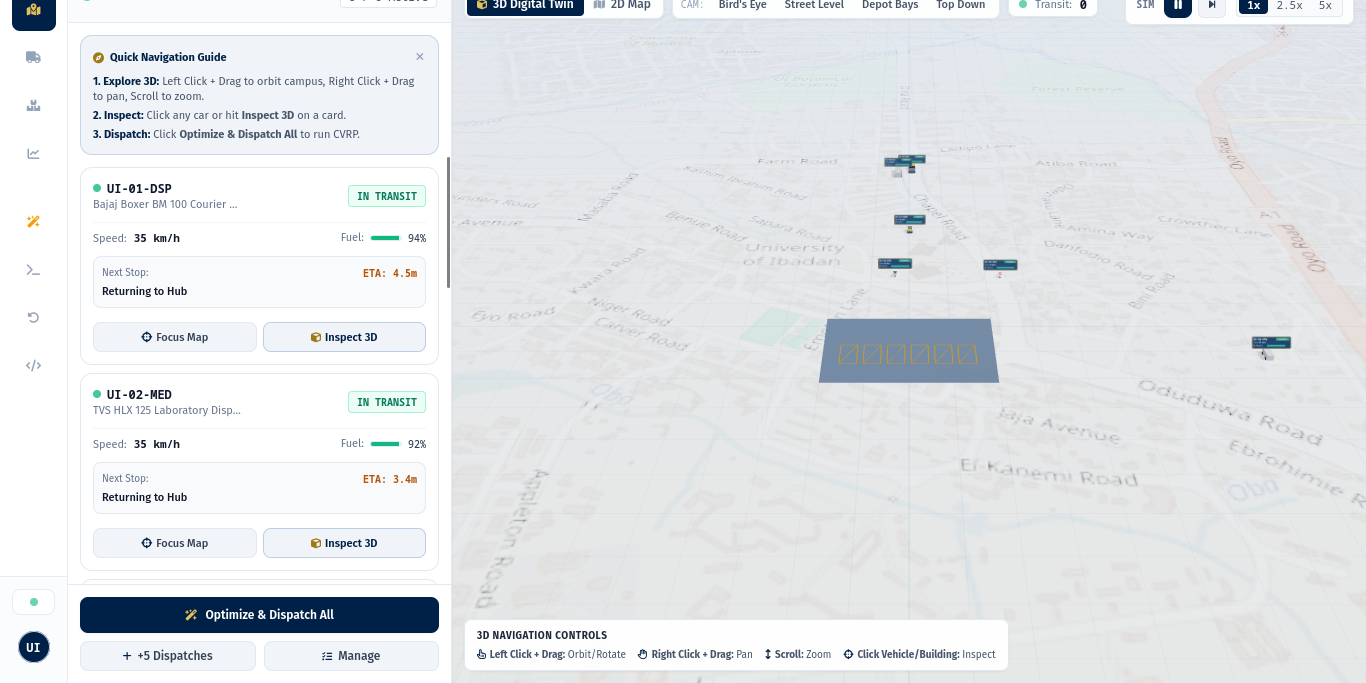
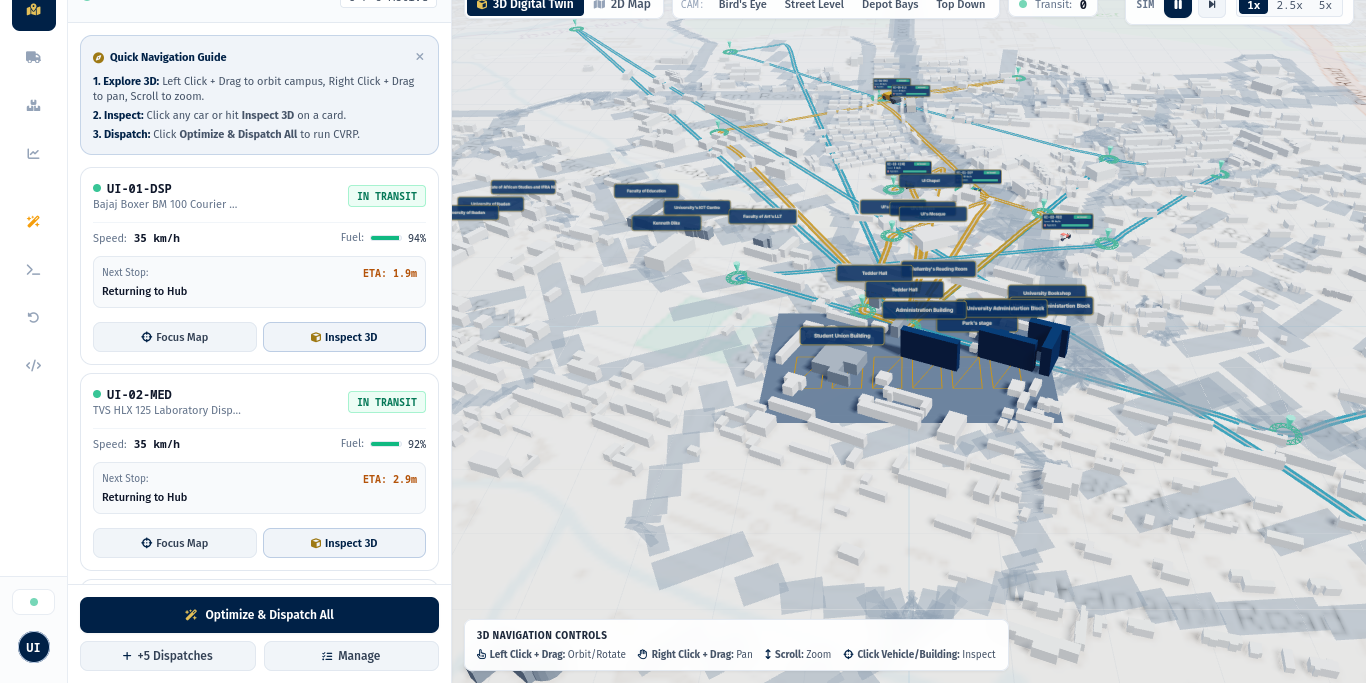
docs: modernize readme header, zoom in 3d layout preview, remove ngrok guide

diff --git a/app/static/js/map3d.js b/app/static/js/map3d.js
@@ -77,7 +77,7 @@ class Campus3DEngine {
 
         // 2. Camera: Wide-angle perspective overlooking campus (isometric 3D Google Maps style)
         this.camera = new THREE.PerspectiveCamera(45, width / height, 1, 4500);
-        this.camera.position.set(0, 240, 340);
+        this.camera.position.set(0, 150, 210);
 
         // 3. WebGL Renderer with PBR tone mapping & soft shadows
         this.renderer = new THREE.WebGLRenderer({ antialias: true, powerPreference: "high-performance" });
@@ -1341,7 +1341,7 @@ class Campus3DEngine {
     setCameraPreset(preset) {
         this.unlockFollow(false);
         if (preset === 'bird') {
-            this.camera.position.set(0, 240, 340);
+            this.camera.position.set(0, 150, 210);
             this.controls.target.set(0, 0, 0);
         } else if (preset === 'street') {
             this.camera.position.set(0, 24, 70);

diff --git a/README.md b/README.md
@@ -1,37 +1,43 @@
-# 🚚 UI-FleetFlow — Campus Fleet & Logistics Management System
-
 <div align="center">
-  <img src="app/static/images/ui_logo.png" alt="University of Ibadan Logo" width="340"/>
-  <br/>
-  <h2><b>Intelligent Campus Fleet & Logistics Management System</b></h2>
-  <p><b>Academic Case Study: University of Ibadan (UI), Ibadan, Nigeria</b></p>
-  <p><i>Real-Time 3D Digital Twin • Autonomous CVRP Dispatch Solver • Live Telematics</i></p>
+  <img src="app/static/images/ui_logo.png" alt="University of Ibadan Crest" width="220"/>
+  <br/><br/>
+  <h1>UI-FleetFlow</h1>
+  <p><b>Intelligent Campus Fleet & Logistics Management System</b><br/>
+  <i>Academic Case Study: University of Ibadan (UI), Ibadan, Nigeria</i><br/>
+  Real-Time 3D Digital Twin • Autonomous CVRP Dispatch Solver • High-Frequency Telematics</p>
 
-  <br/>
+  <p>
+    <a href="https://university-of-ibadan-fleet-management.onrender.com/" target="_blank">
+      <img src="https://img.shields.io/badge/🎮%20LAUNCH%20LIVE%203D%20SIMULATION-EXPLORE%20CAMPUS%20TWIN-002147?style=for-the-badge&logo=threedotjs&logoColor=F59E0B&labelColor=001633" alt="Launch Live 3D Simulation" height="42"/>
+    </a>
+  </p>
 
-  <a href="https://university-of-ibadan-fleet-management.onrender.com/" target="_blank">
-    <img src="https://img.shields.io/badge/🎮%20LAUNCH%20LIVE%203D%20SIMULATION-EXPLORE%20CAMPUS%20TWIN-002147?style=for-the-badge&logo=threedotjs&logoColor=F59E0B&labelColor=001633" alt="Launch Live 3D Simulation" height="42"/>
-  </a>
-  <br/>
-  <sub>⚡ <b>Direct Live Demo:</b> <a href="https://university-of-ibadan-fleet-management.onrender.com/" target="_blank">https://university-of-ibadan-fleet-management.onrender.com/</a> — Free instant access in any browser, zero install or login required.</sub>
+  <p>
+    <a href="https://university-of-ibadan-fleet-management.onrender.com/"><img src="https://img.shields.io/badge/Live%20Simulation-Online%20Now-10B981.svg?style=flat-square&logo=googlechrome&logoColor=white" alt="Live Simulation"/></a>
+    <a href="https://www.python.org/"><img src="https://img.shields.io/badge/Python-3.10+-3776AB.svg?style=flat-square&logo=python&logoColor=white" alt="Python 3.10+"/></a>
+    <a href="https://fastapi.tiangolo.com"><img src="https://img.shields.io/badge/FastAPI-0.115+-009688.svg?style=flat-square&logo=fastapi&logoColor=white" alt="FastAPI"/></a>
+    <a href="https://threejs.org/"><img src="https://img.shields.io/badge/Three.js-WebGL%203D-049EF4.svg?style=flat-square&logo=threedotjs&logoColor=white" alt="Three.js"/></a>
+    <a href="https://ui.shadcn.com/"><img src="https://img.shields.io/badge/shadcn%2Fui-Components-000000.svg?style=flat-square&logo=shadcnui&logoColor=white" alt="shadcn/ui"/></a>
+    <a href="https://www.sqlite.org/"><img src="https://img.shields.io/badge/Database-SQLite-003B57.svg?style=flat-square&logo=sqlite&logoColor=white" alt="SQLite"/></a>
+    <a href="LICENSE"><img src="https://img.shields.io/badge/License-MIT-blue.svg?style=flat-square" alt="License"/></a>
+    <img src="https://img.shields.io/badge/Tests-12%20Passing-brightgreen.svg?style=flat-square" alt="Tests"/>
+  </p>
+
+  <p>
+    <a href="#-user-interface-showcase">Showcase</a> •
+    <a href="#-project-overview">Project Overview</a> •
+    <a href="#-case-study-campus-landmarks">Campus Landmarks</a> •
+    <a href="#-logistics--optimization-engine-vrp">VRP Heuristics</a> •
+    <a href="#-system-architecture">Architecture</a> •
+    <a href="#-quick-start-guide">Quickstart</a> •
+    <a href="#-live-interactive-platform">Live Links</a>
+  </p>
 </div>
 
 ---
 
-> [!IMPORTANT]
-> **Academic Project Disclaimer**: This software is an independent student academic school project and open-source demonstration built for educational and research purposes. It is **not** an officially commissioned, endorsed, or affiliated platform of the University of Ibadan administration or any university directorate. All campus landmarks and facilities are referenced solely as an academic case study for urban/campus logistics modeling.
-
----
-
-[![Live Demo](https://img.shields.io/badge/Live%20Simulation-Online%20Now-10B981.svg?logo=googlechrome&logoColor=white)](https://university-of-ibadan-fleet-management.onrender.com/)
-[![License: MIT](https://img.shields.io/badge/License-MIT-blue.svg)](LICENSE)
-[![Python 3.10+](https://img.shields.io/badge/Python-3.10+-3776AB.svg?logo=python&logoColor=white)](https://www.python.org/)
-[![FastAPI](https://img.shields.io/badge/FastAPI-0.115+-009688.svg?logo=fastapi&logoColor=white)](https://fastapi.tiangolo.com)
-[![Three.js](https://img.shields.io/badge/Three.js-WebGL%203D-049EF4.svg?logo=threedotjs&logoColor=white)](https://threejs.org/)
-[![shadcn/ui](https://img.shields.io/badge/shadcn%2Fui-Components-000000.svg?logo=shadcnui&logoColor=white)](https://ui.shadcn.com/)
-[![SQLite](https://img.shields.io/badge/Database-SQLite-003B57.svg?logo=sqlite&logoColor=white)](https://www.sqlite.org/)
-[![Leaflet.js](https://img.shields.io/badge/GIS%20Maps-Leaflet.js-199900.svg?logo=leaflet&logoColor=white)](https://leafletjs.com/)
-[![Tests](https://img.shields.io/badge/Tests-12%20Passing-brightgreen.svg)]()
+> [!NOTE]
+> **Academic Project Note**: UI-FleetFlow is an independent student academic school project modeling campus-scale urban logistics and telematics. It is not an officially affiliated platform of the University of Ibadan administration; all campus facilities and landmarks are studied as an empirical case study for logistics optimization.
 
 ---
 
@@ -109,11 +115,12 @@ Given a central logistics depot $D$ and delivery points $i, j$:
 
 ```mermaid
 flowchart TD
-    subgraph Frontend["Frontend Client (Browser)"]
-        UI["Operations Dashboard (Tailwind CSS)"]
-        Map["Leaflet.js Interactive Map"]
+    subgraph Frontend["Modern Web Client (Browser)"]
+        UI["shadcn/ui + Tailwind CSS Interfaces"]
+        Twin["Three.js 3D Digital Twin & Procedural Fleets"]
+        Map["Leaflet.js GIS 2D Operations View"]
         WS["WebSocket Telemetry Client (websocket.js)"]
-        Charts["Performance Charts (Chart.js)"]
+        Charts["Analytics & SLA KPIs (Chart.js)"]
     end
 
     subgraph Backend["FastAPI Backend Server"]
@@ -128,7 +135,7 @@ flowchart TD
         end
     end
 
-    subgraph Database["Persistence"]
+    subgraph Database["Persistence Layer"]
         DB[(SQLite - fleet.db)]
         ORM["SQLAlchemy Models"]
     end
@@ -140,8 +147,9 @@ flowchart TD
     Sim -->|Telemetry Ticks| ORM
     Sim -->|Broadcasts Data| WSMgr
     WSMgr -->|Live JSON Packets| WS
+    WS -->|Real-Time Coordinates| Twin
     WS -->|Live Vehicle Markers| Map
-    WS -->|Metrics Feed| Charts
+    WS -->|Metrics Stream| Charts
 ```
 
 ---
@@ -196,20 +204,6 @@ When running locally, open your browser to:
 - **Analytics & SLA KPIs**: [http://localhost:8000/analytics](http://localhost:8000/analytics)
 - **Interactive API Documentation (Docs)**: [http://localhost:8000/docs](http://localhost:8000/docs)
 - **ReDoc Specification**: [http://localhost:8000/redoc](http://localhost:8000/redoc)
-
-### 4. Remote Tunneling with ngrok
-
-To expose the application over the internet to mobile or external devices:
-
-```bash
-# Point ngrok directly to the local port:
-ngrok http 127.0.0.1:8000
-```
-
-> [!TIP]
-> - Always point ngrok to the same port as FastAPI (`8000` by default).
-> - If you want FastAPI to run on port `8080` instead, set `PORT=8080 python run.py` and run `ngrok http 127.0.0.1:8080`.
-> - CORS and proxy headers are pre-configured so WebSockets and tile streams work through ngrok without restrictions.
 
 ---
 
